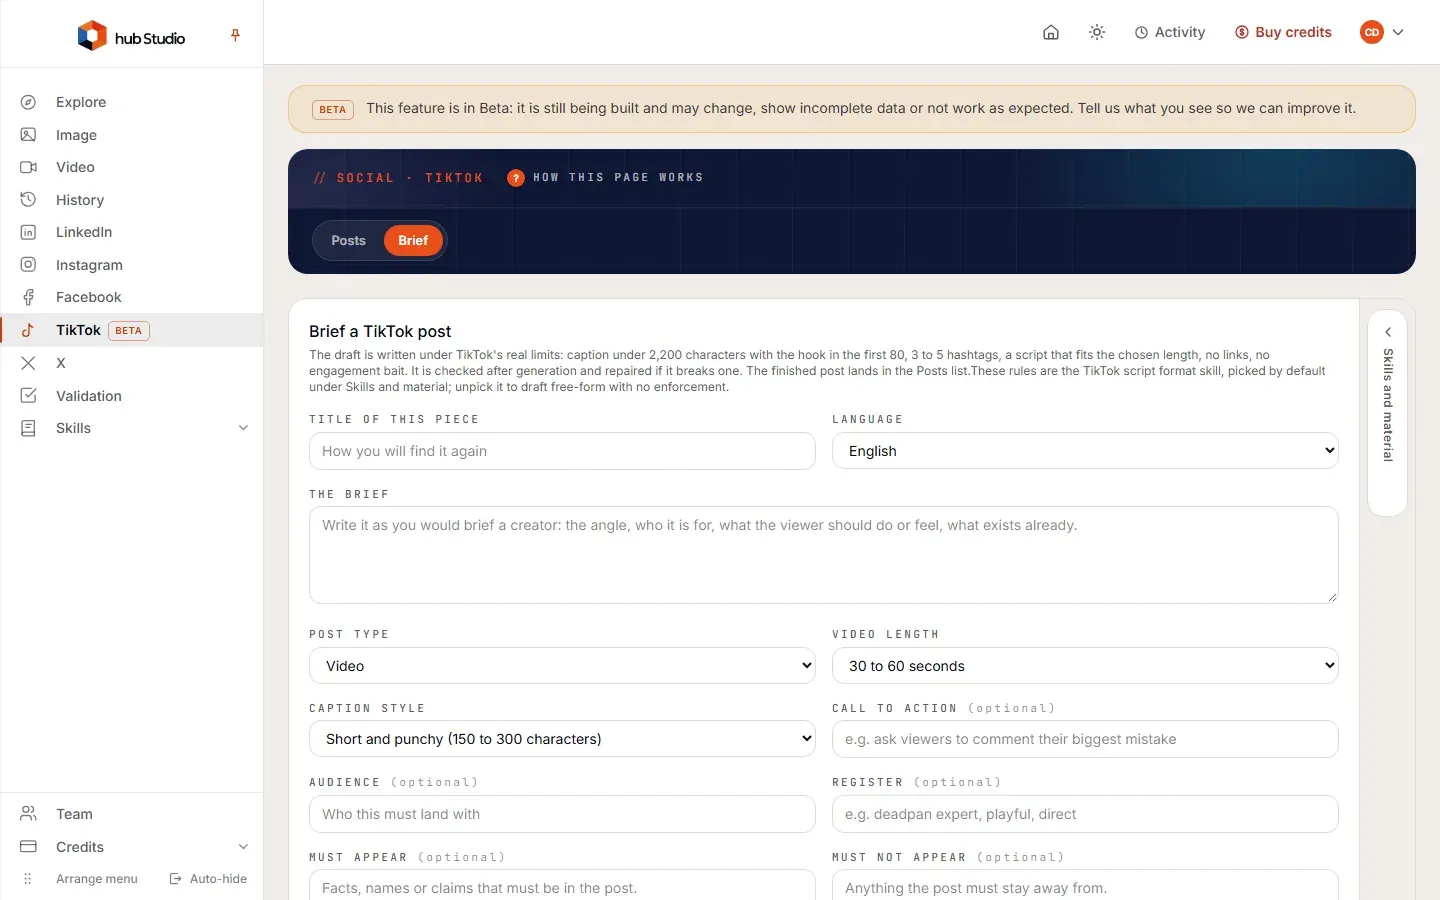
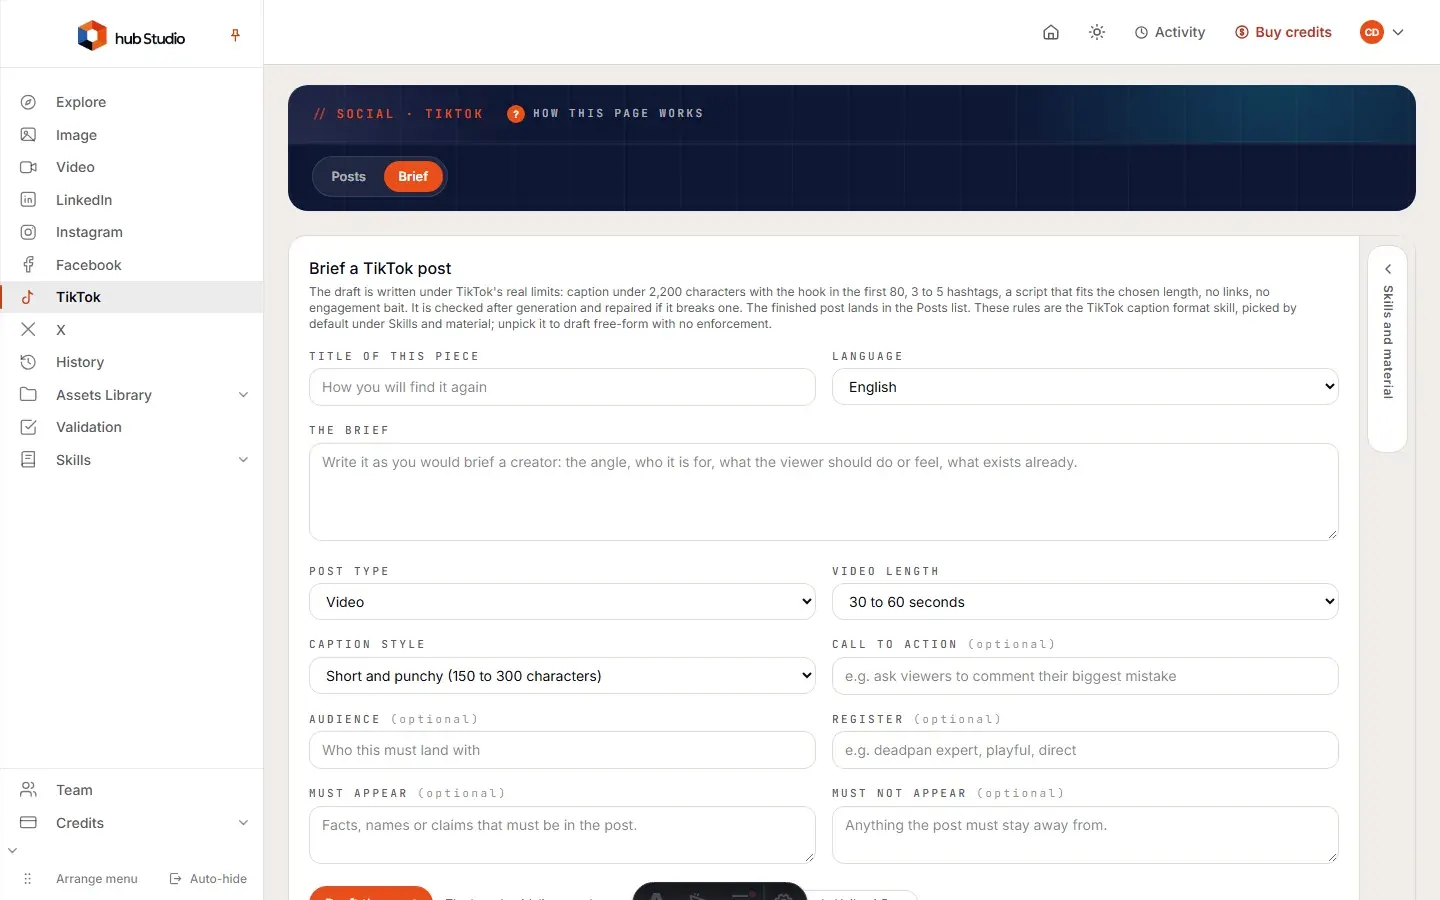
Help: sync from hubstudio-site (TikTok out of Beta, the caption box and TikTok's caption rules, the TikTok preview, AI-generated content; Instagram caption box; new TikTok captures).

diff --git a/src/content/help/tiktok.md b/src/content/help/tiktok.md
@@ -1,7 +1,7 @@
 ---
 title: "TikTok"
 seoTitle: "Make, schedule and publish TikTok videos | hubStudio Help"
-description: "The TikTok module (Beta): connect your TikTok account, start from the video, write its caption, brief a video in depth, say which client it is for, send it for approval, then schedule it or publish it."
+description: "The TikTok module: connect your TikTok account, start from the video, write its caption, brief a video in depth, say which client it is for, send it for approval, then schedule it or publish it."
 excerpt: "Start from the video, add a caption with AI or by hand, or brief a video in depth, and publish it on your TikTok account, now or on schedule."
 section: "social"
 order: 11
@@ -13,15 +13,15 @@ shots:
   - file: "/Images/help/tiktok-video.webp"
     route: "/social/tiktok/posts"
     alt: "The TikTok module on a new post: the Posts and Brief tabs, the band with the three step tiles, and the video step with Render with AI, Pick from the library and Upload from your computer"
-    captured: 2026-09-27
+    captured: 2026-09-29
   - file: "/Images/help/tiktok-brief.webp"
     route: "/social/tiktok/brief"
     alt: "The Brief tab of TikTok: Title of this piece, Language, The brief, Post type, Video length, Caption style, Call to action, Audience, Register, Must appear and Must not appear"
-    captured: 2026-09-27
-sources: ["src/lib/app.ts", "src/components/SocialNav.astro", "src/components/panels/SocialContentPanel.astro", "src/components/panels/TikTokBriefPanel.astro", "src/pages/social/tiktok/brief.astro", "src/scripts/socialContent.ts", "src/scripts/selectionRewrite.ts", "src/scripts/clientPick.ts", "src/pages/api/social-content/[id].ts", "src/lib/social-content-db.ts", "src/lib/social-format-skills.ts", "src/lib/social/limits.ts", "src/lib/social/live.ts", "src/lib/social/scheduler.ts", "src/lib/social/publications.ts", "src/pages/my-connections.astro", "src/scripts/socialAccounts.ts", "src/lib/own-work.ts", "src/lib/team-clients.ts"]
+    captured: 2026-09-29
+sources: ["src/lib/app.ts", "src/components/SocialNav.astro", "src/components/panels/SocialContentPanel.astro", "src/components/panels/TikTokBriefPanel.astro", "src/pages/social/tiktok/brief.astro", "src/scripts/socialContent.ts", "src/scripts/selectionRewrite.ts", "src/scripts/clientPick.ts", "src/pages/api/social-content/[id].ts", "src/lib/social-content-db.ts", "src/lib/social-format-skills.ts", "src/lib/social/limits.ts", "src/lib/social/live.ts", "src/lib/social/scheduler.ts", "src/lib/social/publications.ts", "src/pages/my-connections.astro", "src/scripts/socialAccounts.ts", "src/lib/own-work.ts", "src/lib/team-clients.ts", "src/lib/tiktok-constraints.ts", "src/pages/api/social-content/draft.ts", "src/lib/social/publishers.ts"]
 ---
 
-**TikTok** in the menu, marked **Beta**, holds your TikTok videos, from the first clip to the published post. On TikTok a post is a video and the words are its caption: you render, pick or upload the clip, then write its caption with AI or by hand, and publish it on your account, now or at a time you pick. Or you post it yourself on TikTok.
+**TikTok** in the menu holds your TikTok videos, from the first clip to the published post. On TikTok a post is a video and the words are its caption: you render, pick or upload the clip, then write its caption with AI or by hand, and publish it on your account, now or at a time you pick. Or you post it yourself on TikTok.
 
 ## Before you start
 
@@ -39,7 +39,7 @@ On **Posts**, the dark band at the top holds:
 
 - the post list button, which shows the open post's title (or **All posts**) and how many posts there are;
 - **How this page works**, a short note about TikTok;
-- **New script**, which clears the form for a fresh post;
+- **New post**, which clears the form for a fresh post;
 - the three steps of the open post as tiles: **01 The video**, **02 The caption** and **03 Publishing**. Each tile shows its state (done, in progress, to do or not needed); click it to open that step. There is no brief step: what the video shows is the brief.
 
 Click the post list button to open every post in a panel over the page. Type in the search box to match words of the title or the caption, a status or a date, or keep the posts written between two days. Click a row to open that post.
@@ -66,7 +66,15 @@ TikTok takes one MP4, MOV or WEBM clip of 3 seconds to 10 minutes. Your account 
 
 ## 02 The caption
 
-The caption step writes the words for the video. Under **Write the caption**, say anything it has to carry (an offer, a date, a call to action), pick the model and click **Write it with AI**: left empty, the caption is written from the clip alone. Or just type the caption in the editor. The skill **TikTok script format** is already picked; it carries TikTok's posting rules. See [Skills](/help/skills).
+The caption step writes the words for the video. While the caption is empty, it opens on the **Have AI write the caption** box:
+
+1. Check the model and the skills at the top. **TikTok caption format** is already picked; it carries TikTok's caption rules.
+2. Under **Your brief for the AI** (optional), say anything the caption has to carry: an offer, a date, a call to action. Left empty, the caption is written from the clip alone.
+3. Click **Write it with AI**. The caption lands in the editor below, ready to edit.
+
+Or skip the box and type the caption straight in the editor. See [Skills](/help/skills).
+
+With **TikTok caption format** picked, the caption keeps to TikTok's own rules: at most 2,200 characters (100 to 300 is the target), the hook and the words people would search for in the first 70 characters, one paragraph in the first person, 3 to 5 specific hashtags at the end (TikTok takes 5 at most), an open question or an invitation to save or share to close, and no link. It never asks for likes or follows, which TikTok keeps off the For You feed. A caption that breaks a rule is rewritten once by the AI, then trimmed if it's still too long or carries more than 5 hashtags.
 
 Whatever sits in the editor is what goes out. TikTok keeps up to 2,200 characters, and a counter under the box shows how much room is left.
 
@@ -84,10 +92,10 @@ The **Brief** tab is the long way to start a TikTok post. Under **Brief a TikTok
 1. Give it a **Title of this piece**, pick the **Language**, and write **The brief** the way you'd brief a creator: the angle, who it is for, what the viewer should do or feel.
 2. Pick the **Video length** and the **Caption style**: **Short and punchy (150 to 300 characters)** or **TikTok SEO (keyword-rich, 300 to 600 characters)**.
 3. Add what helps, all optional: **Call to action**, **Audience**, **Register**, **Must appear** and **Must not appear**.
-4. Under **Skills and material**, add **Files**, **Pages to read** and **Keywords to target**. **TikTok script format** is already picked.
+4. Under **Skills and material**, add **Files**, **Pages to read** and **Keywords to target**. **TikTok caption format** is already picked.
 5. Click **Draft the post**.
 
-You get the whole package: the hook, a timed script, the on-screen text and the caption with its hashtags, kept inside TikTok's rules (the hook in the first 80 characters, 3 to 5 hashtags, no links). The result is saved as a draft in **Posts**, where you add the video.
+You get the whole package: the hook, a timed script, the on-screen text and the caption with its hashtags, kept inside TikTok's rules (the caption rules above, a hook in the first 3 seconds of the script, a script that fits the length, on-screen text clear of TikTok's buttons). The result is saved as a draft in **Posts**, where you add the video.
 
 ## Made for a client
 
@@ -97,22 +105,25 @@ The line appears once your team has at least one client. See [Your team](/help/y
 
 ## Send it for approval
 
-On the publishing step, the bar under the phone preview holds **Send for validation**. Name a teammate, or one of the client's people for a post made for a client. See [Validation](/help/validation).
+On the publishing step, the phone shows the post the way TikTok shows it: the clip full screen, your account name, the caption and the sound line over the bottom of it, and the likes, comments, saves and shares on the right edge. Tap the clip to play it with its sound, tap again to pause, and use the bar along the bottom to jump to any moment. The caption on the phone takes typing, and the labels TikTok adds (**Paid partnership**, **Promotional content**, **Creator labeled as AI-generated**) show under it as you choose them.
+
+The bar under the phone preview holds **Send for validation**. Name a teammate, or one of the client's people for a post made for a client. See [Validation](/help/validation).
 
 While it waits, the post is locked: the band reads **Waiting for validation: this post is locked until the validator decides.** Nothing on it can be changed, deleted or published until they decide. Approved, it can go out; sent back, it returns to draft for another round.
 
 ## Publish automatically
 
-Open **Publishing** and stay on the **Publish automatically** tab. hubStudio posts through TikTok itself, in the name of the account you tick.
+Open **Publishing** and stay on the **Publish automatically** tab. hubStudio posts through TikTok itself, in the name of the account you tick. TikTok lets no app edit or remove a video once it's out, so check the preview first.
 
-1. Under **Who it goes out as**, tick one or more of your accounts. Nothing is ticked when the step opens. Without a connected TikTok account, the tab offers a button that opens My Connections in a new tab.
+1. Under **Who it goes out as**, tick your account. TikTok takes one account at a time, and nothing is ticked when the step opens. Without a connected TikTok account, the tab offers a button that opens My Connections in a new tab.
 2. Open **Posting to TikTok**. Its choices come from TikTok itself, for the account you ticked:
    - **Who can see this post**: **Everyone**, **Friends**, **Followers** or **Only me**, as your account allows. Nothing is picked for you.
    - **Allow people to**: **Comment**, **Duet** and **Stitch**. A choice turned off in your own TikTok settings is grayed out.
    - **Disclose post content**, when the video promotes a brand, a product or a service. Then tick **Your brand** (you promote yourself or your own business), **Branded content** (you promote another brand or a third party), or both. Branded content can't be private, so **Only me** is off while it is ticked.
+   - **AI-generated content** puts TikTok's "Creator labeled as AI-generated" label on the video. It's ticked already when the clip was rendered with AI in hubStudio, and unticked for a clip you uploaded or picked. TikTok asks creators to label realistic AI-made scenes and people.
 3. Click **Publish now** to send it this second. To send it later, click **Schedule**: a **When it goes out** block opens. Pick a day and a time, or a chip: **In an hour**, **Tonight, 18:00**, **Tomorrow, 09:00** or **Monday, 09:00**. Then click **Schedule it**.
 
-The buttons stay locked until an account is ticked: the badge next to the tabs reads **Off until you tick one**, then **Ready when you are**. The time is read in your own time zone, set in **User Settings**. A scheduled time must be at least a couple of minutes ahead and no more than a year away, and one post can go to up to 20 accounts. TikTok itself caps how many posts an account sends a day, about 15.
+The buttons stay locked until an account is ticked: the badge next to the tabs reads **Off until you tick one**, then **Ready when you are**. The time is read in your own time zone, set in **User Settings**. A scheduled time must be at least a couple of minutes ahead and no more than a year away. TikTok itself caps how many posts an account sends a day, about 15.
 
 hubStudio looks at the queue every five minutes, so a post set for 09:00 goes out between 09:00 and 09:05. It checks the post against TikTok's limits again before sending.
 

diff --git a/src/content/help/getting-started.md b/src/content/help/getting-started.md
@@ -63,7 +63,7 @@ The menu on the left holds the studio first, then the networks and Validation, t
 | **Video** | The video studio. See [Create a video](/help/create-a-video). |
 | **History** | Everything you and your team made. See [History](/help/history). |
 | **Assets Library** | **Assets**: every file of your team, uploads and renders, in folders. **Tools**: the Image editor (crop to each network's format, write, draw, place a logo) and the Image anonymizer. See [Assets Library and its Tools](/help/assets-library). |
-| **LinkedIn**, **Instagram**, **Facebook**, **TikTok** (with a **Beta** badge) and **X** | One module per network: write a post, add its picture or video, then schedule it or publish it on the accounts you connected. See [LinkedIn](/help/linkedin), [Instagram](/help/instagram), [Facebook](/help/facebook), [TikTok](/help/tiktok) and [X](/help/x). |
+| **LinkedIn**, **Instagram**, **Facebook**, **TikTok** and **X** | One module per network: write a post, add its picture or video, then schedule it or publish it on the accounts you connected. See [LinkedIn](/help/linkedin), [Instagram](/help/instagram), [Facebook](/help/facebook), [TikTok](/help/tiktok) and [X](/help/x). |
 | **Validation** | The work waiting for someone's approval, and what you sent for approval. See [Validation](/help/validation). |
 | **Skills** | **My skills**, **Team skills** (administrators only) and the **Catalog**. See [Skills](/help/skills). |
 | **Partner** | Only for commercial partners. See [Partners](/help/partners). |

diff --git a/src/content/help/instagram.md b/src/content/help/instagram.md
@@ -69,7 +69,7 @@ You don't need to prepare the files: every picture is turned into a JPEG Instagr
 
 ## 02 The caption
 
-The caption step writes the words for the visual. Under **Write the caption**, say anything it has to carry (an offer, a date, a call to action), pick the model and click **Write it with AI**: left empty, the caption is written from the picture alone. Or just type the caption in the editor. The skill **Instagram caption format** is already picked; it carries Instagram's posting rules. See [Skills](/help/skills).
+The caption step writes the words for the visual. While the caption is empty, it opens on the **Have AI write the caption** box: check the model and the skills at the top, say under **Your brief for the AI** (optional) anything the caption has to carry (an offer, a date, a call to action), then click **Write it with AI**. Left empty, the brief lets the caption be written from the picture alone. Or just type the caption in the editor. The skill **Instagram caption format** is already picked; it carries Instagram's posting rules. See [Skills](/help/skills).
 
 Whatever sits in the editor is what goes out. Instagram keeps up to 2,200 characters, 30 hashtags and 20 @ tags, and a counter under the box shows how much room is left.
 
